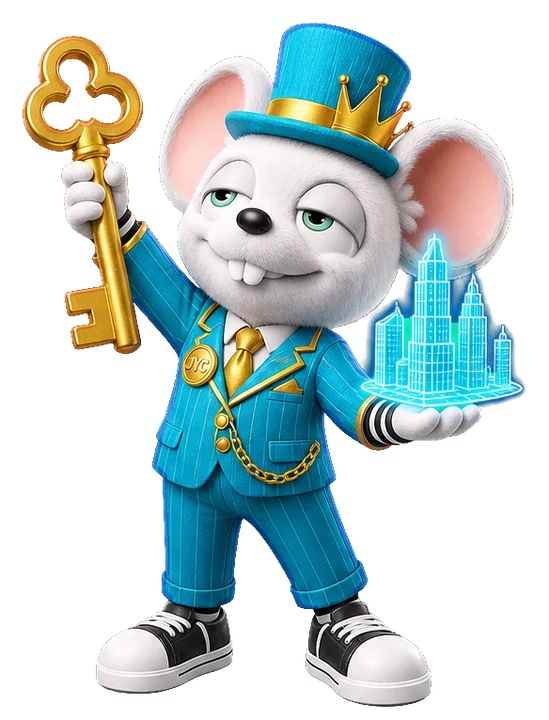
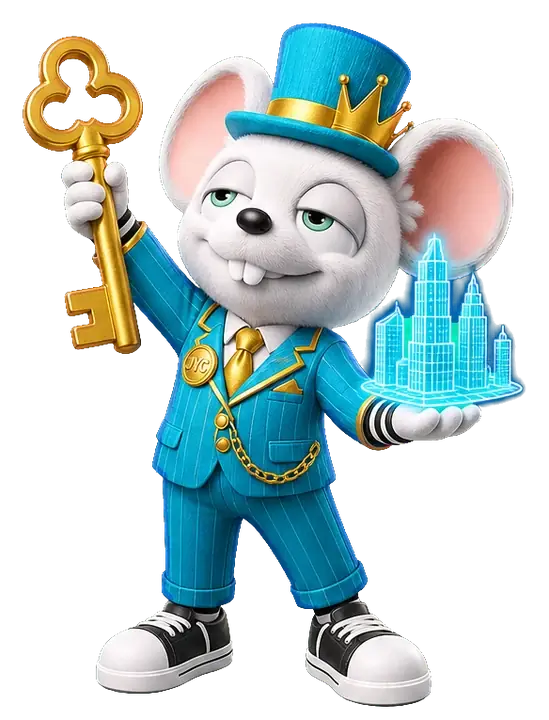
feat(v10): JYC BOX/全息闪卡接入(替换命运卡模拟器, live 字段数据驱动) + 首屏去除自转星球 + OG/canonical + 守护鼠 WebP 压缩

diff --git a/public/static/style.css b/public/static/style.css
@@ -1125,3 +1125,31 @@ body { animation: pagein .5s var(--ease); }
   .hot-media { width: 70px; height: 70px; }
 }
 @media (prefers-reduced-motion: reduce) { .reel-track { animation: none; } }
+
+/* ===================== v10: 已上线真实产品(JYC BOX / 全息闪卡) ===================== */
+.live-product { display: grid; grid-template-columns: 300px 1fr 240px; gap: 32px; align-items: center; padding: 30px; margin-top: 56px; border-color: color-mix(in srgb, var(--c) 40%, transparent); overflow: hidden; }
+.live-product::before { content: ''; position: absolute; inset: -40% auto auto -20%; width: 60%; aspect-ratio: 1; border-radius: 50%; background: radial-gradient(circle, color-mix(in srgb, var(--c) 28%, transparent), transparent 70%); pointer-events: none; }
+.lp-shot { position: relative; display: block; border-radius: 24px; overflow: hidden; border: 1px solid var(--line); box-shadow: 0 30px 60px rgba(0,0,0,.5); transition: transform .4s var(--bounce), box-shadow .4s; }
+.lp-shot img { display: block; width: 100%; height: auto; }
+.lp-shot:hover { transform: translateY(-6px) scale(1.02); box-shadow: 0 40px 80px rgba(0,0,0,.6), 0 0 0 2px var(--c); }
+.lp-box { transform: rotate(-2deg); } .lp-card { transform: rotate(2.5deg); }
+.lp-tag { position: absolute; top: 14px; left: 14px; display: inline-flex; align-items: center; gap: 7px; padding: 6px 12px; border-radius: 999px; font-size: 11px; font-weight: 900; letter-spacing: .12em; background: rgba(10,8,24,.85); border: 1px solid rgba(255,255,255,.15); color: #fff; backdrop-filter: blur(8px); }
+.lp-tag i { font-size: 7px; color: #3DFF9A; animation: livepulse 1.6s ease-in-out infinite; }
+@keyframes livepulse { 0%,100% { opacity: 1; transform: scale(1); } 50% { opacity: .45; transform: scale(.7); } }
+.lp-cap { position: absolute; left: 0; right: 0; bottom: 0; padding: 22px 12px 12px; font-size: 11px; font-weight: 800; text-align: center; color: rgba(255,255,255,.85); background: linear-gradient(180deg, transparent, rgba(0,0,0,.8)); }
+.lp-text .sec-title { font-size: clamp(26px, 3vw, 38px); }
+.lp-text .check-list { margin: 20px 0 26px; } .lp-text .check-list li { font-size: 14.5px; }
+.lp-text .check-list i { background: color-mix(in srgb, var(--c) 20%, transparent); color: var(--c); }
+.live-dot { display: inline-flex; align-items: center; gap: 5px; margin-left: 8px; padding: 2px 8px; border-radius: 999px; font-style: normal; font-size: 10px; letter-spacing: .1em; background: rgba(61,255,154,.12); color: #3DFF9A; border: 1px solid rgba(61,255,154,.3); }
+.live-dot::before { content: ''; width: 5px; height: 5px; border-radius: 50%; background: #3DFF9A; animation: livepulse 1.6s ease-in-out infinite; }
+.play-badge.live, .gl-tag.live { background: linear-gradient(180deg, #7CFFB8, #3DFF9A); color: #06301A; }
+.gl-tag.live i { font-size: 7px; margin-right: 2px; animation: livepulse 1.6s ease-in-out infinite; }
+.gb-game.is-live small i { font-size: 9px; margin-left: 2px; }
+.hot.is-live .hot-play, .gcard-lobby.is-live .gl-play i { background: linear-gradient(180deg, #7CFFB8, #3DFF9A); color: #06301A; }
+@media (max-width: 1100px) { .live-product { grid-template-columns: 260px 1fr; } .lp-card { display: none; } }
+@media (max-width: 760px) {
+  .live-product { grid-template-columns: 1fr; padding: 22px; gap: 22px; margin-top: 36px; text-align: center; }
+  .lp-box { transform: none; width: min(100%, 300px); margin: 0 auto; }
+  .lp-text .check-list li { text-align: left; }
+  .lp-text .hero-cta { justify-content: center; }
+}

diff --git a/src/pages/play.tsx b/src/pages/play.tsx
@@ -1,5 +1,5 @@
 import { realms, allGames } from '../data'
-import { Page, PageHero, CtaBand, Vid } from '../components'
+import { Page, PageHero, CtaBand, Vid, LiveProduct } from '../components'
 
 /* ---------- 试玩钱包条(所有游戏页共用) ---------- */
 export const WalletBar = () => (
@@ -17,16 +17,16 @@ export const WalletBar = () => (
 
 /* ---------- 单个游戏卡片(大厅) ---------- */
 const GameCard = ({ g, i }: { g: (typeof allGames)[number]; i: number }) => (
-  <a class="gcard-lobby glass reveal tilt" href={`/play/${g.id}`} style={`--c:${g.color};--c2:${g.color2};--d:${(i % 4) * .06}s`}>
+  <a class={`gcard-lobby glass reveal tilt ${g.live ? 'is-live' : ''}`} href={g.live ? g.live.url : `/play/${g.id}`} target={g.live ? '_blank' : undefined} rel={g.live ? 'noopener' : undefined} style={`--c:${g.color};--c2:${g.color2};--d:${(i % 4) * .06}s`}>
     <div class="gl-visual">
       <img src={g.mouseImg} alt="" loading="lazy" />
-      <span class="gl-tag">{g.tag}</span>
+      <span class={`gl-tag ${g.live ? 'live' : ''}`}>{g.live ? <><i class="fa-solid fa-circle"></i> {g.tag}</> : g.tag}</span>
     </div>
     <div class="gl-body">
       <span class="gl-realm"><i class={`fa-solid ${g.icon}`}></i> {g.realmCode}</span>
       <h3>{g.name}</h3>
       <p>{g.desc}</p>
-      <span class="gl-play">试玩 <i class="fa-solid fa-play"></i></span>
+      {g.live ? <span class="gl-play">{g.live.label} <i class="fa-solid fa-arrow-up-right-from-square"></i></span> : <span class="gl-play">试玩 <i class="fa-solid fa-play"></i></span>}
     </div>
   </a>
 )
@@ -89,6 +89,24 @@ export const GamePage = ({ g }: { g: (typeof allGames)[number] }) => {
         </div>
       </section>
 
+      {g.live ? (
+      <section class="sec sec-wide game-sec" id="game">
+        <LiveProduct g={g} color={g.color} color2={g.color2} />
+        <div class="game-video-row">
+          <Vid src={g.video} poster={g.poster} cls="game-video" cap={`${g.guardian.name} 玩法演绎`} sub={`${g.realmName} · ${g.realmCode}`} />
+          <div class="game-howto glass">
+            <div class="kicker" style={`color:${g.color};border-color:${g.color}55;background:${g.color}18`}>HOW IT WORKS</div>
+            <h3>{g.name} · 三步上手</h3>
+            <ol>
+              <li><b>01</b><span>进入 JYC BOX,连接钱包(MetaMask / OKX / TokenPocket 等)</span></li>
+              <li><b>02</b><span>点击「开盒」,15 个装扮元素掷取拼合,召唤属于你的创世鼠伙伴</span></li>
+              <li><b>03</b><span>伙伴以全息闪卡形态归档与鉴定,可在图鉴欣赏、交易所流通</span></li>
+            </ol>
+            <blockquote><img src="/static/img/mascot-head.webp" alt="" /> {g.guardian.name}:“{g.guardian.quote}”</blockquote>
+          </div>
+        </div>
+      </section>
+      ) : (
       <section class="sec sec-wide game-sec" id="game">
         <WalletBar />
         <div class="game-frame glass" data-game={g.id} style={`--c:${g.color};--c2:${g.color2}`}></div>
@@ -107,6 +125,7 @@ export const GamePage = ({ g }: { g: (typeof allGames)[number] }) => {
         </div>
         <p class="game-disc"><i class="fa-solid fa-circle-info"></i> 本页为产品概念演示,所有数字为试玩币,随机数在浏览器本地生成,不涉及真实资产。</p>
       </section>
+      )}
 
       {siblings.length > 0 && (
         <section class="sec sec-wide" id="game-siblings">

diff --git a/src/pages/realms.tsx b/src/pages/realms.tsx
@@ -1,5 +1,5 @@
 import { realms, totalPlays, roadmap, personas, type Realm } from '../data'
-import { Page, PageHero, SectionHead, RealmCard, CtaBand, Pic, Vid } from '../components'
+import { Page, PageHero, SectionHead, RealmCard, CtaBand, Pic, Vid, LiveProduct } from '../components'
 
 /* ---------- 星系交互图 ---------- */
 const Galaxy = () => (
@@ -91,10 +91,13 @@ export const RealmDetailPage = ({ r }: { r: Realm }) => {
           </div>
           <div class="guardian-band-games">
             <span class="gb-label">本星域可试玩 · {r.games.length} 款</span>
-            {r.games.map(g => <a class="gb-game" href={`/play/${g.id}`}><i class="fa-solid fa-play"></i><b>{g.name}</b><small>{g.tag}</small></a>)}
+            {r.games.map(g => g.live
+              ? <a class="gb-game is-live" href={g.live.url} target="_blank" rel="noopener"><i class="fa-solid fa-box-open"></i><b>{g.name}</b><small>{g.tag} <i class="fa-solid fa-arrow-up-right-from-square"></i></small></a>
+              : <a class="gb-game" href={`/play/${g.id}`}><i class="fa-solid fa-play"></i><b>{g.name}</b><small>{g.tag}</small></a>)}
           </div>
         </div>
-        {r.games[0] && <>
+        {r.games[0]?.live && <LiveProduct g={r.games[0]} color={r.color} color2={r.color2} />}
+        {r.games[0] && !r.games[0].live && <>
           <div class="sec-head left reveal" style="margin-top:56px"><div class="kicker">PLAY NOW</div><h2 class="sec-title">试玩:<span style={`color:${r.color}`}>{r.games[0].name}</span></h2><p class="sec-sub">{r.games[0].desc}</p></div>
           <div class="wallet-bar reveal">
             <div class="wallet-bal"><span class="coin">J</span><b data-wallet-bal>10,000</b><small>试玩 JYC</small></div>
@@ -111,12 +114,15 @@ export const RealmDetailPage = ({ r }: { r: Realm }) => {
         <div class="plays-grid">
           {r.plays.map((p, i) => {
             const g = r.games.find(x => p.includes(x.name.split(' ')[0]) || x.name.includes(p.split(' ')[0]))
-            const Tag: any = g ? 'a' : 'div'
+            const ext = r.games.find(x => x.live && (p.includes('JYC BOX') || p.includes('闪卡')))
+            const live = ext?.live ? (p.includes('闪卡') && ext.live.siteUrl ? ext.live.siteUrl : ext.live.url) : undefined
+            const href = live ?? (g ? `/play/${g.id}` : undefined)
+            const Tag: any = href ? 'a' : 'div'
             return (
-            <Tag class={`play glass reveal ${g ? 'playable' : ''}`} href={g ? `/play/${g.id}` : undefined} style={`--d:${(i % 6) * 0.05}s`}>
+            <Tag class={`play glass reveal ${href ? 'playable' : ''}`} href={href} target={live ? '_blank' : undefined} rel={live ? 'noopener' : undefined} style={`--d:${(i % 6) * 0.05}s`}>
               <span class="play-no">{String(i + 1).padStart(2, '0')}</span>
               <span class="play-name">{p}</span>
-              {g && <span class="play-badge"><i class="fa-solid fa-play"></i> 可试玩</span>}
+              {live ? <span class="play-badge live"><i class="fa-solid fa-arrow-up-right-from-square"></i> 已上线</span> : g && <span class="play-badge"><i class="fa-solid fa-play"></i> 可试玩</span>}
             </Tag>
           )})}
         </div>

diff --git a/src/data.ts b/src/data.ts
@@ -21,8 +21,11 @@ export interface Realm {
   video: string
   poster: string
   guardian: { name: string; title: string; trait: string; quote: string }
-  games: { id: string; name: string; desc: string; tag: string }[]
+  games: Game[]
 }
+
+/* live: 已上线的真实产品(外链);有 live 的玩法不再走站内模拟器 */
+export type Game = { id: string; name: string; desc: string; tag: string; live?: { url: string; label: string; sub?: string; siteUrl?: string; siteLabel?: string } }
 
 export const realms: Realm[] = [
   {
@@ -136,14 +139,15 @@ export const realms: Realm[] = [
     tagline: '抽的是运气,攒的是资产',
     desc: '命运卡 NFT 五档稀有度(N / R / SR / SSR / UR),卡牌不仅能收藏、合成、交易,还能在全生态生效:SSR 卡 = 手续费折扣、彩票加倍、Crash 保险、分红加成。',
     color: '#E86BFF', color2: '#38E8FF', icon: 'fa-clone', count: 12,
-    plays: ['抽卡', '盲盒', '命运卡 NFT', '卡牌合成 / 升星', '卡牌增益系统', '卡牌对战 TCG', '宠物养成', '坐骑', '限量藏品拍卖', '卡牌二级市场', '赛季限定卡', '名人 / IP 联名卡'],
+    plays: ['盲盒 · JYC BOX', '全息闪卡', '命运卡 NFT', '卡牌合成 / 升星', '卡牌增益系统', '卡牌对战 TCG', '宠物养成', '坐骑', '限量藏品拍卖', '卡牌二级市场', '赛季限定卡', '名人 / IP 联名卡'],
     highlight: '卡牌增益:SSR = 手续费折扣 · 彩票加倍 · Crash 保险 · 分红加成',
     planetImg: '/static/img/planet-cards.webp', sceneImg: '/static/img/scene-cards.jpg', orbit: 2, angle: 150,
     mouseImg: '/static/img/mouse-cards.webp',
     video: '/static/video/realm-cards.mp4', poster: '/static/video/realm-cards.jpg',
     guardian: { name: '闪卡鼠 · Holo', title: '卡牌与收藏守护者', trait: '收藏癖 · 审美 · 对稀有度有执念', quote: '抽的是运气,攒的是资产。' },
     games: [
-      { id: 'gacha', name: '命运卡抽卡', desc: '开一包命运卡,N/R/SR/SSR/UR 五档稀有度', tag: 'NFT' },
+      { id: 'gacha', name: 'JYC BOX 创世盲盒', desc: '开盒召唤创世鼠伙伴:15 个装扮元素独立掷取,每一只都是唯一编号;开出的伙伴以全息闪卡呈现,可鉴定、可流通', tag: '已上线',
+        live: { url: 'https://box.xnebul.com', label: '进入 JYC BOX 开盒', sub: '创世纪元 · 真实产品', siteUrl: 'https://card.xnebul.com', siteLabel: '全息闪卡图鉴' } },
     ],
   },
   {
@@ -285,7 +289,7 @@ export const roadmap = [
   },
   {
     q: '2027 Q1', title: '扩张', color: '#38E8FF',
-    items: ['LOTTERY 全线上线 + MEGA JACKPOT 启动', 'SPORTS 体育电竞 + 虚拟体育', 'CARDS 抽卡与命运卡 NFT', 'PREDICT 加密秒级市场 + UGC 自建市场', '公会与战队系统'],
+    items: ['LOTTERY 全线上线 + MEGA JACKPOT 启动', 'SPORTS 体育电竞 + 虚拟体育', 'CARDS 命运卡 NFT + 卡牌合成(JYC BOX 创世盲盒已上线)', 'PREDICT 加密秒级市场 + UGC 自建市场', '公会与战队系统'],
     realms: ['lottery', 'sports', 'cards', 'predict'],
   },
   {

diff --git a/src/renderer.tsx b/src/renderer.tsx
@@ -1,4 +1,4 @@
-import { jsxRenderer } from 'hono/jsx-renderer'
+import { jsxRenderer, useRequestContext } from 'hono/jsx-renderer'
 
 declare module 'hono' {
   interface ContextRenderer {
@@ -10,6 +10,9 @@ const SITE = 'JYC Verse'
 
 export const renderer = jsxRenderer(({ children, title, desc }) => {
   const fullTitle = title ? `${title} · ${SITE}` : `${SITE} · One Token. Every Thrill. — 全球最大的 Web3 娱乐宇宙`
+  const c = useRequestContext()
+  const url = new URL(c.req.url)
+  const canonical = `https://jyc.xnebul.com${url.pathname === '/' ? '/' : url.pathname.replace(/\/$/, '')}`
   const description = desc ?? 'JYC Verse:全球首个覆盖全部玩家类型的一站式 Web3 娱乐宇宙。预测、竞猜、赌场、彩票、玄学、竞技、卡牌、直播、元宇宙——12 大星域、160+ 玩法,一枚代币贯通全生态:JYC。'
   return (
     <html lang="zh-CN">
@@ -21,13 +24,26 @@ export const renderer = jsxRenderer(({ children, title, desc }) => {
         <meta property="og:title" content={fullTitle} />
         <meta property="og:description" content={description} />
         <meta property="og:type" content="website" />
+        <meta property="og:site_name" content="JYC Verse" />
+        <meta property="og:url" content={canonical} />
+        <meta property="og:image" content="https://jyc.xnebul.com/static/img/og.jpg" />
+        <meta property="og:image:width" content="1200" />
+        <meta property="og:image:height" content="630" />
+        <meta property="og:locale" content="zh_CN" />
+        <meta name="twitter:card" content="summary_large_image" />
+        <meta name="twitter:title" content={fullTitle} />
+        <meta name="twitter:description" content={description} />
+        <meta name="twitter:image" content="https://jyc.xnebul.com/static/img/og.jpg" />
+        <link rel="canonical" href={canonical} />
         <meta name="theme-color" content="#0E0720" />
         <link rel="icon" href="/static/favicon.svg" type="image/svg+xml" />
         <link rel="preconnect" href="https://fonts.googleapis.com" />
         <link rel="preconnect" href="https://fonts.gstatic.com" crossorigin />
         <link href="https://fonts.googleapis.com/css2?family=Baloo+2:wght@600;700;800&family=Nunito:wght@600;700;800;900&family=JetBrains+Mono:wght@400;500;700&family=Noto+Sans+SC:wght@300;400;500;600;700;800&display=swap" rel="stylesheet" />
+        <link rel="preload" as="font" type="font/woff2" crossorigin href="https://cdn.jsdelivr.net/npm/@fortawesome/fontawesome-free@6.5.2/webfonts/fa-solid-900.woff2" />
         <link href="https://cdn.jsdelivr.net/npm/@fortawesome/fontawesome-free@6.5.2/css/all.min.css" rel="stylesheet" />
-        <link href="/static/style.css?v=9" rel="stylesheet" />
+        <link rel="preload" as="image" href="/static/img/hero-key.jpg" />
+        <link href="/static/style.css?v=10" rel="stylesheet" />
         <link href="/static/games.css?v=9" rel="stylesheet" />
       </head>
       <body>

diff --git a/src/components.tsx b/src/components.tsx
@@ -1,4 +1,4 @@
-import { realms, totalPlays } from './data'
+import { realms, totalPlays, type Game } from './data'
 
 /* ---------- 站点开关:二级页面暂不对外展示(路由保留,可随时打开) ---------- */
 export const SHOW_SUBPAGES = true
@@ -208,6 +208,34 @@ export const MobileNav = ({ path }: { path: string }) => (
       return <a href={n.href} class={active ? 'active' : ''} aria-current={active ? 'page' : undefined}><i class={`fa-solid ${n.icon}`}></i><span>{n.label}</span></a>
     })}
   </nav>
+)
+
+/* ---------- 已上线真实产品(替代站内模拟器):JYC BOX 开盒 + 全息闪卡 ---------- */
+export const LiveProduct = ({ g, color, color2 }: { g: Game; color: string; color2: string }) => (
+  <div class="live-product glass reveal" id="live-product" style={`--c:${color};--c2:${color2}`}>
+    <a class="lp-shot lp-box" href={g.live!.url} target="_blank" rel="noopener" aria-label={g.live!.label}>
+      <img src="/static/img/live-box.jpg" alt="JYC BOX 开盒界面" loading="lazy" />
+      <span class="lp-tag"><i class="fa-solid fa-circle"></i> LIVE · 已上线</span>
+    </a>
+    <div class="lp-text">
+      <div class="kicker">GENESIS · 创世纪元</div>
+      <h2 class="sec-title">{g.name}</h2>
+      <p class="sec-sub">{g.desc}</p>
+      <ul class="check-list">
+        <li><i class="fa-solid fa-fingerprint"></i> 每一只都是世间唯一:组合 + 品相 + 编号生成唯一哈希</li>
+        <li><i class="fa-solid fa-id-card"></i> 伙伴自动获得 JYC Verse 通行证,进入全生态竞技、养成、社交</li>
+        <li><i class="fa-solid fa-lock"></i> 创世期结束后总量封存,永久携带 Genesis 烙印</li>
+      </ul>
+      <div class="hero-cta">
+        <a class="btn btn-gold" href={g.live!.url} target="_blank" rel="noopener">{g.live!.label} <i class="fa-solid fa-box-open"></i></a>
+        {g.live!.siteUrl && <a class="btn btn-ghost" href={g.live!.siteUrl} target="_blank" rel="noopener">{g.live!.siteLabel} <i class="fa-solid fa-arrow-up-right-from-square"></i></a>}
+      </div>
+    </div>
+    {g.live!.siteUrl && <a class="lp-shot lp-card" href={g.live!.siteUrl} target="_blank" rel="noopener" aria-label={g.live!.siteLabel}>
+      <img src="/static/img/live-card.jpg" alt="全息闪卡图鉴" loading="lazy" />
+      <span class="lp-cap">全息闪卡 · 陀螺仪闪光 · 已鉴定</span>
+    </a>}
+  </div>
 )
 
 /* ---------- 页面外壳 ---------- */

diff --git a/src/pages/home.tsx b/src/pages/home.tsx
@@ -26,11 +26,6 @@ const Hero = () => (
     </div>
     <div class="hero-key" id="hero-orbit">
       <img src="/static/img/hero-key.jpg" alt="JYC Verse 主视觉:JYC 金币与环绕的十二星域" fetchpriority="high" />
-      {realms.map(r => (
-        <a class={`hero-planet orbit-${r.orbit}`} style={`--a:${r.angle}deg;--c:${r.color}`} href={SHOW_SUBPAGES ? `/realms/${r.id}` : '#home-realms'} title={`${r.code} · ${r.name}`}>
-          <img src={r.planetImg} alt={r.name} loading="lazy" />
-        </a>
-      ))}
     </div>
     <div class="hero-stats">
       <span><b>12</b> 大星域</span><i></i>
@@ -122,10 +117,10 @@ const HotGames = () => {
       <SectionHead kicker="PLAY NOW · DEMO" title={<>不只是看,<span class="grad-cyan">现在就能玩</span></>} sub="每个星域的核心玩法都做成了可交互演示。用 10,000 试玩 JYC,感受秒级结算的手感。" />
       <div class="hot-grid">
         {hot.map((g, i) => (
-          <a class="hot glass reveal tilt" href={`/play/${g.id}`} style={`--c:${g.color};--c2:${g.color2};--d:${i * .07}s`}>
+          <a class={`hot glass reveal tilt ${g.live ? 'is-live' : ''}`} href={g.live ? g.live.url : `/play/${g.id}`} target={g.live ? '_blank' : undefined} rel={g.live ? 'noopener' : undefined} style={`--c:${g.color};--c2:${g.color2};--d:${i * .07}s`}>
             <span class="hot-media"><img src={g.mouseImg} alt="" loading="lazy" /><video data-hover-video muted playsinline loop preload="none" poster={g.poster}><source data-src={g.video} type="video/mp4" /></video></span>
-            <div><span class="hot-realm">{g.realmCode}</span><h3>{g.name}</h3><p>{g.desc}</p></div>
-            <span class="hot-play"><i class="fa-solid fa-play"></i></span>
+            <div><span class="hot-realm">{g.realmCode}{g.live && <em class="live-dot">已上线</em>}</span><h3>{g.name}</h3><p>{g.desc}</p></div>
+            <span class="hot-play"><i class={`fa-solid ${g.live ? 'fa-arrow-up-right-from-square' : 'fa-play'}`}></i></span>
           </a>
         ))}
       </div>

diff --git a/README.md b/README.md
@@ -10,6 +10,15 @@
 - **风格**：B+C「潮玩星际赌城」—— 紫黑星空底 + 糖果霓虹色（金色仅留给 JYC）+ 28px 大圆角玻璃卡 + 弹性 3D 金色按钮 + Baloo 2 / Nunito 圆润展示字体 + 3D 潮玩星球与吉祥物
 - **语言**：仅中文 UI；不含代币经济具体数字；路线图为 1 年（2026 Q4 → 2027 Q3）
 
+## v10 · 真实产品接入 + 首屏精简 + 分享卡片(2026-09-16)
+- **JYC BOX / 全息闪卡接入官网(不新增区块,替换原「命运卡抽卡」模拟器)**:`data.ts` 中 CARDS 星域的 `gacha` 游戏加 `live` 字段 → 所有引用它的卡片自动变为真实产品外链(首页热门试玩、/play 大厅卡、/play/gacha 详情页、/realms/cards 守护鼠横幅 + 玩法列表),绿色「已上线」徽标 + 外链图标区分于「可试玩」
+  - `/play/gacha` 与 `/realms/cards` 用 `LiveProduct` 组件(`components.tsx`)展示 JYC BOX 开盒截图 + 全息闪卡截图 + 两个 CTA → https://box.xnebul.com / https://card.xnebul.com
+  - 素材:`img/live-box.jpg`、`img/live-card.jpg`;路线图 2027 Q1 CARDS 条目注明「JYC BOX 创世盲盒已上线」
+  - 以后再有真实产品上线,只需给对应 game 加 `live: { url, label, ... }`,全站入口自动切换
+- **首页首屏精简**:移除主视觉外围 12 颗自转星球(`hero-planet`),只保留金币 + 鼠王 KV(视差保留)
+- **分享卡片 / SEO**:`og:image`(`img/og.jpg` 1200×630)、`og:url`、`twitter:card=summary_large_image`、每页 `canonical`(`renderer.tsx` 通过 `useRequestContext` 取路径)
+- **性能**:12 守护鼠 + 鼠王 WebP 重编码 1.2MB → 0.75MB(尺寸不变);FontAwesome woff2 与 hero-key.jpg `preload`
+
 ## v9 · 视频化 + 素材补齐 + 赌场五连（2026-09-09）
 - **13 段 AI 游戏动画视频**（seedance-2.0，守护鼠为主角、逐星域玩法演绎，6s / 960w / H.264 / 无声循环，含海报帧）：`public/static/video/realm-<id>.mp4|jpg` ×12 + `universe-hero.mp4`（元宇宙页背景）
 - **视频出现在每一层**：
@@ -145,4 +154,4 @@ sleep 9 && curl http://localhost:3000
 - **重新部署**：`npm run build && npx wrangler pages deploy dist --project-name jyc-verse --branch main`（需 `CLOUDFLARE_API_TOKEN`）
 - **状态**：✅ 新版（v9）已上线，已替代老版
 - **版本区分**：新版 `main` / 标签 `v2-new-jyc-verse`；老版 `legacy/old-jyc-verse` / 标签 `v1-old-jyc-verse`（详见 `VERSIONS.md`、`HANDOFF.md`）
-- **最后更新**：2026-09-16（新版 v9 部署到 Cloudflare Pages `jyc-verse` 替代老版；仓库内区分新/老版并加入交接文档）
+- **最后更新**：2026-09-16（v10:JYC BOX / 全息闪卡接入、首屏去星球、OG 分享图、守护鼠图压缩;已部署生产）

diff --git a/HANDOFF.md b/HANDOFF.md
@@ -43,6 +43,11 @@ git checkout -b legacy/fix-xxx
 - ❌ 删除 `legacy/old-jyc-verse` 分支或 `v1-old-jyc-verse` / `v2-new-jyc-verse` 标签
 - ❌ 在 `legacy/old-jyc-verse` 上 rebase / force push
 
+## 关联产品（独立站点，官网仅外链）
+- **JYC BOX** https://box.xnebul.com（CF Pages `jyc-box`）· **全息闪卡** https://card.xnebul.com（CF Pages `jyc-verse-card`）
+- 官网接入方式：`src/data.ts` → CARDS 星域 `games[0]`（id `gacha`）的 `live` 字段。**不要**为新产品另加导航项/首页区块，给对应 game 加 `live` 即可全站生效
+- 设计原则（用户明确要求）：体系已完善，**改一处需联动多处时优先用数据驱动，不要往首页/导航堆叠新东西**
+
 ## 关键路径速查（新版）
 - 入口 `src/index.tsx`；页面 `src/pages/*.tsx`；数据 `src/data.ts`；公共组件 `src/components.tsx`（顶部 `SHOW_SUBPAGES` 开关）
 - 前端脚本 `public/static/app.js`、`games.js` / `games2.js` / `games3.js`；动效库自托管 `public/static/vendor/`
